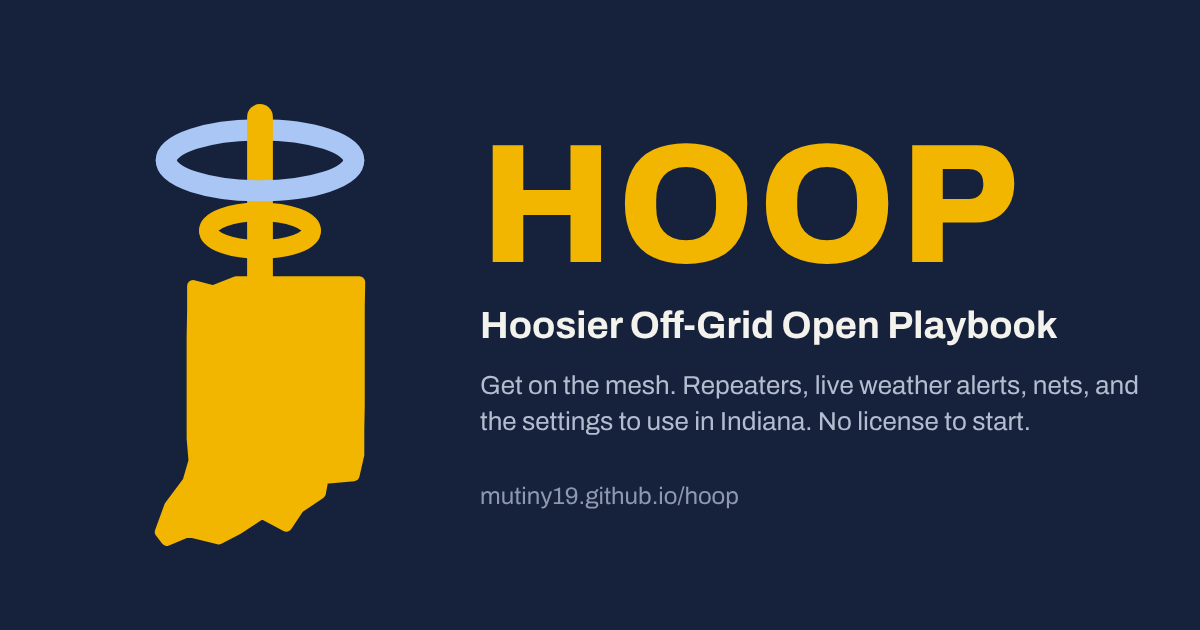
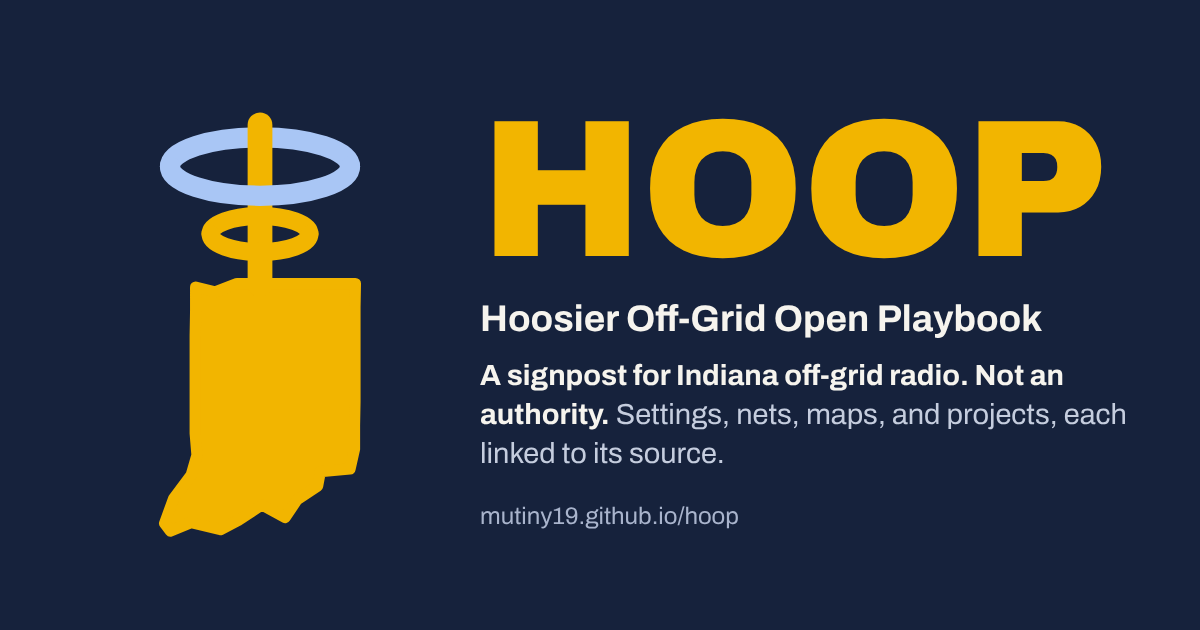
Link previews: redraw the picture with the signpost headline and give it a new address
Chat apps and social sites keep a saved copy of a preview picture until its address
changes, so links kept showing the earlier logo. The picture now carries a version
on every page, and tools/social_image.js redraws it from the mark.

Claude-Session: https://claude.ai/code/session_01WD4jFhUxvP5nJsd9kdkoez

diff --git a/emergency/index.html b/emergency/index.html
@@ -12,7 +12,7 @@
 <meta property="og:title" content="Off-grid mesh for emergency management">
 <meta property="og:description" content="How emergency managers, CERT, ARES/RACES, and disaster groups use off-grid LoRa mesh radio, with cited case studies from four states and New Zealand. APA.">
 <meta property="og:url" content="https://mutiny19.github.io/hoop/emergency/">
-<meta property="og:image" content="https://mutiny19.github.io/hoop/assets/social.png">
+<meta property="og:image" content="https://mutiny19.github.io/hoop/assets/social.png?v=2">
 <meta property="og:image:width" content="1200">
 <meta property="og:image:height" content="630">
 <meta name="twitter:card" content="summary_large_image">
@@ -24,9 +24,9 @@
 <meta property="og:image:alt" content="HOOP: Hoosier Off-Grid Open Playbook">
 <meta name="twitter:title" content="Off-grid mesh for emergency management">
 <meta name="twitter:description" content="How emergency managers, CERT, ARES/RACES, and disaster groups use off-grid LoRa mesh radio, with cited case studies from four states and New Zealand. APA.">
-<meta name="twitter:image" content="https://mutiny19.github.io/hoop/assets/social.png">
+<meta name="twitter:image" content="https://mutiny19.github.io/hoop/assets/social.png?v=2">
 <meta name="twitter:image:alt" content="HOOP: Hoosier Off-Grid Open Playbook">
-<script type="application/ld+json">{"@context": "https://schema.org", "@type": "Article", "headline": "Off-Grid Mesh Radio for Emergency Management and CERT", "description": "How emergency managers, CERT, ARES/RACES, and disaster groups use off-grid LoRa mesh radio, with cited case studies.", "author": {"@type": "Organization", "name": "HOOP"}, "publisher": {"@type": "Organization", "name": "HOOP", "logo": {"@type": "ImageObject", "url": "https://mutiny19.github.io/hoop/assets/social.png"}}, "datePublished": "2026-10-17", "dateModified": "2026-10-25", "mainEntityOfPage": "https://mutiny19.github.io/hoop/emergency/", "image": "https://mutiny19.github.io/hoop/assets/social.png", "isPartOf": {"@id": "https://mutiny19.github.io/hoop/#website"}}</script>
+<script type="application/ld+json">{"@context": "https://schema.org", "@type": "Article", "headline": "Off-Grid Mesh Radio for Emergency Management and CERT", "description": "How emergency managers, CERT, ARES/RACES, and disaster groups use off-grid LoRa mesh radio, with cited case studies.", "author": {"@type": "Organization", "name": "HOOP"}, "publisher": {"@type": "Organization", "name": "HOOP", "logo": {"@type": "ImageObject", "url": "https://mutiny19.github.io/hoop/assets/social.png?v=2"}}, "datePublished": "2026-10-17", "dateModified": "2026-10-25", "mainEntityOfPage": "https://mutiny19.github.io/hoop/emergency/", "image": "https://mutiny19.github.io/hoop/assets/social.png?v=2", "isPartOf": {"@id": "https://mutiny19.github.io/hoop/#website"}}</script>
 <link rel="manifest" href="../manifest.webmanifest">
 <meta name="theme-color" content="#16223C">
 <link rel="apple-touch-icon" href="../assets/icon-192.png">

diff --git a/meshcore/index.html b/meshcore/index.html
@@ -12,7 +12,7 @@
 <meta property="og:title" content="Get on the Indiana mesh: MeshCore in five steps">
 <meta property="og:description" content="New radio to first MeshCore message in Indiana in five steps: which radio, the USA preset, channels people use, and the groups near you. No license, about $30.">
 <meta property="og:url" content="https://mutiny19.github.io/hoop/meshcore/">
-<meta property="og:image" content="https://mutiny19.github.io/hoop/assets/social.png">
+<meta property="og:image" content="https://mutiny19.github.io/hoop/assets/social.png?v=2">
 <meta property="og:image:width" content="1200">
 <meta property="og:image:height" content="630">
 <meta name="twitter:card" content="summary_large_image">
@@ -24,7 +24,7 @@
 <meta property="og:image:alt" content="HOOP: Hoosier Off-Grid Open Playbook">
 <meta name="twitter:title" content="Get on the Indiana mesh: MeshCore in five steps">
 <meta name="twitter:description" content="New radio to first MeshCore message in Indiana in five steps: which radio, the USA preset, channels people use, and the groups near you. No license, about $30.">
-<meta name="twitter:image" content="https://mutiny19.github.io/hoop/assets/social.png">
+<meta name="twitter:image" content="https://mutiny19.github.io/hoop/assets/social.png?v=2">
 <meta name="twitter:image:alt" content="HOOP: Hoosier Off-Grid Open Playbook">
 <script type="application/ld+json">{"@context": "https://schema.org", "@type": "HowTo", "name": "Get on the Indiana mesh with MeshCore", "description": "From a new radio to your first MeshCore message in five steps.", "totalTime": "PT1H", "estimatedCost": {"@type": "MonetaryAmount", "currency": "USD", "value": "30"}, "step": [{"@type": "HowToStep", "name": "Pick a radio", "text": "A SenseCAP T1000-E or a Heltec V3/V4."}, {"@type": "HowToStep", "name": "Flash the companion firmware", "text": "Use the official MeshCore web flasher."}, {"@type": "HowToStep", "name": "Set the USA preset and path hash size", "text": "The radio preset must match everyone else's; set path hash size to 2 bytes."}, {"@type": "HowToStep", "name": "Join the channels people use", "text": "Public is built in; add the hashtag channels for your area."}, {"@type": "HowToStep", "name": "Send a flood advert", "text": "So people and repeaters learn you are there."}], "isPartOf": {"@id": "https://mutiny19.github.io/hoop/#website"}, "dateModified": "2026-10-25"}</script>
 <link rel="manifest" href="../manifest.webmanifest">

diff --git a/index.html b/index.html
@@ -12,7 +12,7 @@
 <meta property="og:title" content="HOOP · Hoosier Off-Grid Open Playbook">
 <meta property="og:description" content="Indiana off-grid comms on one map: MeshCore repeaters, live NWS alerts, radio nets, and starting settings for MeshCore, Meshtastic, GMRS, ham, and Reticulum.">
 <meta property="og:url" content="https://mutiny19.github.io/hoop/">
-<meta property="og:image" content="https://mutiny19.github.io/hoop/assets/social.png">
+<meta property="og:image" content="https://mutiny19.github.io/hoop/assets/social.png?v=2">
 <meta property="og:image:width" content="1200">
 <meta property="og:image:height" content="630">
 <meta name="twitter:card" content="summary_large_image">
@@ -24,7 +24,7 @@
 <meta property="og:image:alt" content="HOOP: Hoosier Off-Grid Open Playbook">
 <meta name="twitter:title" content="HOOP · Hoosier Off-Grid Open Playbook">
 <meta name="twitter:description" content="Indiana off-grid comms on one map: MeshCore repeaters, live NWS alerts, radio nets, and starting settings for MeshCore, Meshtastic, GMRS, ham, and Reticulum.">
-<meta name="twitter:image" content="https://mutiny19.github.io/hoop/assets/social.png">
+<meta name="twitter:image" content="https://mutiny19.github.io/hoop/assets/social.png?v=2">
 <meta name="twitter:image:alt" content="HOOP: Hoosier Off-Grid Open Playbook">
 <script type="application/ld+json">{"@context": "https://schema.org", "@graph": [{"@type": "WebSite", "@id": "https://mutiny19.github.io/hoop/#website", "url": "https://mutiny19.github.io/hoop/", "name": "HOOP", "alternateName": "Hoosier Off-Grid Open Playbook", "description": "Off-grid communications in Indiana: MeshCore, Meshtastic, GMRS, ham radio, and Reticulum. Represents no network or organization.", "inLanguage": "en-US"}, {"@type": "WebPage", "@id": "https://mutiny19.github.io/hoop/#webpage", "url": "https://mutiny19.github.io/hoop/", "name": "HOOP: Indiana Off-Grid Comms, MeshCore Map, Nets, and Settings", "isPartOf": {"@id": "https://mutiny19.github.io/hoop/#website"}, "about": {"@type": "Place", "name": "Indiana", "address": {"@type": "PostalAddress", "addressRegion": "IN", "addressCountry": "US"}}, "dateModified": "2026-10-25"}]}</script>
 <link rel="manifest" href="manifest.webmanifest">

diff --git a/meshnet/index.html b/meshnet/index.html
@@ -12,7 +12,7 @@
 <meta property="og:title" content="#meshnet: the same check-in on every mesh, at the same time">
 <meta property="og:description" content="One channel, ten minutes, Sundays and Thursdays at 7:00 PM US Eastern. Check in from anywhere, mirror it for your area, and see Indiana's check-ins on a map.">
 <meta property="og:url" content="https://mutiny19.github.io/hoop/meshnet/">
-<meta property="og:image" content="https://mutiny19.github.io/hoop/assets/social.png">
+<meta property="og:image" content="https://mutiny19.github.io/hoop/assets/social.png?v=2">
 <meta property="og:image:width" content="1200">
 <meta property="og:image:height" content="630">
 <meta name="twitter:card" content="summary_large_image">
@@ -24,7 +24,7 @@
 <meta property="og:image:alt" content="HOOP: Hoosier Off-Grid Open Playbook">
 <meta name="twitter:title" content="#meshnet: the same check-in on every mesh, at the same time">
 <meta name="twitter:description" content="One channel, ten minutes, Sundays and Thursdays at 7:00 PM US Eastern. Check in from anywhere, mirror it for your area, and see Indiana's check-ins on a map.">
-<meta name="twitter:image" content="https://mutiny19.github.io/hoop/assets/social.png">
+<meta name="twitter:image" content="https://mutiny19.github.io/hoop/assets/social.png?v=2">
 <meta name="twitter:image:alt" content="HOOP: Hoosier Off-Grid Open Playbook">
 <script type="application/ld+json">{"@context": "https://schema.org", "@type": "WebPage", "url": "https://mutiny19.github.io/hoop/meshnet/", "name": "#meshnet: the same check-in on every mesh, at the same time", "description": "A ten-minute MeshCore check-in net open to anyone on the mesh, Sundays and Thursdays at 7:00 PM, with check-ins from Indiana and its border counties on a map.", "isPartOf": {"@id": "https://mutiny19.github.io/hoop/#website"}, "dateModified": "2026-11-01"}</script>
 <link rel="manifest" href="../manifest.webmanifest">

diff --git a/projects/index.html b/projects/index.html
@@ -12,7 +12,7 @@
 <meta property="og:title" content="Off-grid projects made or used in Indiana">
 <meta property="og:description" content="Mesh firmware, apps, 3D prints, ham and GMRS tools, and maps, made or used in Indiana. Anyone can add one.">
 <meta property="og:url" content="https://mutiny19.github.io/hoop/projects/">
-<meta property="og:image" content="https://mutiny19.github.io/hoop/assets/social.png">
+<meta property="og:image" content="https://mutiny19.github.io/hoop/assets/social.png?v=2">
 <meta property="og:image:width" content="1200">
 <meta property="og:image:height" content="630">
 <meta name="twitter:card" content="summary_large_image">
@@ -24,7 +24,7 @@
 <meta property="og:image:alt" content="HOOP: Hoosier Off-Grid Open Playbook">
 <meta name="twitter:title" content="Off-grid projects made or used in Indiana">
 <meta name="twitter:description" content="Mesh firmware, apps, 3D prints, ham and GMRS tools, and maps, made or used in Indiana.">
-<meta name="twitter:image" content="https://mutiny19.github.io/hoop/assets/social.png">
+<meta name="twitter:image" content="https://mutiny19.github.io/hoop/assets/social.png?v=2">
 <meta name="twitter:image:alt" content="HOOP: Hoosier Off-Grid Open Playbook">
 <script type="application/ld+json">{"@context": "https://schema.org", "@type": "CollectionPage", "url": "https://mutiny19.github.io/hoop/projects/", "name": "Off-grid projects made or used in Indiana", "description": "Off-grid communications projects made or used in Indiana: mesh firmware, apps and tools, 3D-printed enclosures, ham and GMRS tools, and maps. Anyone can add one.", "isPartOf": {"@id": "https://mutiny19.github.io/hoop/#website"}, "dateModified": "2026-11-06"}</script>
 <link rel="manifest" href="../manifest.webmanifest">

diff --git a/live/index.html b/live/index.html
@@ -12,7 +12,7 @@
 <meta property="og:title" content="Watch the Indiana mesh live">
 <meta property="og:description" content="Where live MeshCore traffic in Indiana shows up: Waev, OKI CoreScope, LetsMesh, MeshMapper, and the official MeshCore Map, plus how to run an observer.">
 <meta property="og:url" content="https://mutiny19.github.io/hoop/live/">
-<meta property="og:image" content="https://mutiny19.github.io/hoop/assets/social.png">
+<meta property="og:image" content="https://mutiny19.github.io/hoop/assets/social.png?v=2">
 <meta property="og:image:width" content="1200">
 <meta property="og:image:height" content="630">
 <meta name="twitter:card" content="summary_large_image">
@@ -24,7 +24,7 @@
 <meta property="og:image:alt" content="HOOP: Hoosier Off-Grid Open Playbook">
 <meta name="twitter:title" content="Watch the Indiana mesh live">
 <meta name="twitter:description" content="Where live MeshCore traffic in Indiana shows up: Waev, OKI CoreScope, LetsMesh, MeshMapper, and the official MeshCore Map, plus how to run an observer.">
-<meta name="twitter:image" content="https://mutiny19.github.io/hoop/assets/social.png">
+<meta name="twitter:image" content="https://mutiny19.github.io/hoop/assets/social.png?v=2">
 <meta name="twitter:image:alt" content="HOOP: Hoosier Off-Grid Open Playbook">
 <script type="application/ld+json">{"@context": "https://schema.org", "@type": "WebPage", "url": "https://mutiny19.github.io/hoop/live/", "name": "Watch Indiana MeshCore traffic live", "description": "Where live MeshCore traffic in Indiana shows up and how to run an observer.", "isPartOf": {"@id": "https://mutiny19.github.io/hoop/#website"}, "dateModified": "2026-10-25"}</script>
 <link rel="manifest" href="../manifest.webmanifest">

diff --git a/gifts/index.html b/gifts/index.html
@@ -12,7 +12,7 @@
 <meta property="og:title" content="Off-grid radio gift guide">
 <meta property="og:description" content="A simple gift list for someone curious about off-grid radio in Indiana: one example per kind of gear, grouped into kits that fit under $100, $250, $500, and $1,000.">
 <meta property="og:url" content="https://mutiny19.github.io/hoop/gifts/">
-<meta property="og:image" content="https://mutiny19.github.io/hoop/assets/social.png">
+<meta property="og:image" content="https://mutiny19.github.io/hoop/assets/social.png?v=2">
 <meta property="og:image:width" content="1200">
 <meta property="og:image:height" content="630">
 <meta name="twitter:card" content="summary_large_image">
@@ -24,7 +24,7 @@
 <meta property="og:image:alt" content="HOOP: Hoosier Off-Grid Open Playbook">
 <meta name="twitter:title" content="Off-grid radio gift guide">
 <meta name="twitter:description" content="A simple gift list for someone curious about off-grid radio in Indiana: one example per kind of gear, grouped into kits that fit under $100, $250, $500, and $1,000.">
-<meta name="twitter:image" content="https://mutiny19.github.io/hoop/assets/social.png">
+<meta name="twitter:image" content="https://mutiny19.github.io/hoop/assets/social.png?v=2">
 <meta name="twitter:image:alt" content="HOOP: Hoosier Off-Grid Open Playbook">
 <script type="application/ld+json">{"@context": "https://schema.org", "@type": "WebPage", "url": "https://mutiny19.github.io/hoop/gifts/", "name": "Off-grid radio gift guide", "description": "Starter radio kits by budget, one example per kind of gear.", "isPartOf": {"@id": "https://mutiny19.github.io/hoop/#website"}, "dateModified": "2026-11-17"}</script>
 <link rel="manifest" href="../manifest.webmanifest">

diff --git a/channels/index.html b/channels/index.html
@@ -12,7 +12,7 @@
 <meta property="og:title" content="Indiana channel lists and net schedule">
 <meta property="og:description" content="Listen-only channels as a file for CHIRP, and every Indiana net on the list, by day.">
 <meta property="og:url" content="https://mutiny19.github.io/hoop/channels/">
-<meta property="og:image" content="https://mutiny19.github.io/hoop/assets/social.png">
+<meta property="og:image" content="https://mutiny19.github.io/hoop/assets/social.png?v=2">
 <meta property="og:image:width" content="1200">
 <meta property="og:image:height" content="630">
 <meta name="twitter:card" content="summary_large_image">
@@ -24,7 +24,7 @@
 <meta property="og:image:alt" content="HOOP: Hoosier Off-Grid Open Playbook">
 <meta name="twitter:title" content="Indiana channel lists and net schedule">
 <meta name="twitter:description" content="Listen-only channel lists for CHIRP, and every Indiana net by day.">
-<meta name="twitter:image" content="https://mutiny19.github.io/hoop/assets/social.png">
+<meta name="twitter:image" content="https://mutiny19.github.io/hoop/assets/social.png?v=2">
 <meta name="twitter:image:alt" content="HOOP: Hoosier Off-Grid Open Playbook">
 <link rel="manifest" href="../manifest.webmanifest">
 <meta name="theme-color" content="#16223C">

diff --git a/tools/social_image.html b/tools/social_image.html
@@ -1,0 +1,20 @@
+<!doctype html><html><head><meta charset="utf-8"><style>
+@font-face { font-family: Archivo; src: url(FONTS/archivo.woff2) format("woff2"); font-weight: 100 900; }
+* { box-sizing: border-box; margin: 0; }
+body { width: 1200px; height: 630px; background: #16223C; color: #F6F4EE; font-family: Archivo, sans-serif; display: grid; grid-template-columns: 420px 1fr; align-items: center; }
+.mark { justify-self: center; height: 450px; margin-left: 100px; }
+.t { padding: 0 70px 0 60px; }
+h1 { font-size: 196px; font-weight: 900; line-height: .92; color: #F2B500; letter-spacing: -.01em; }
+h2 { font-size: 37px; font-weight: 700; margin-top: 18px; }
+p { font-size: 29px; line-height: 1.34; color: #C5CDDE; margin-top: 18px; }
+p b { color: #F6F4EE; font-weight: 700; }
+.u { font-size: 24px; color: #A9B4CC; margin-top: 30px; }
+</style></head><body>
+<img class="mark" src="MARK" alt="">
+<div class="t">
+  <h1>HOOP</h1>
+  <h2>Hoosier Off-Grid Open Playbook</h2>
+  <p><b>A signpost for Indiana off-grid radio. Not an authority.</b> Settings, nets, maps, and projects, each linked to its source.</p>
+  <div class="u">mutiny19.github.io/hoop</div>
+</div>
+</body></html>

diff --git a/tools/social_image.js b/tools/social_image.js
@@ -1,0 +1,13 @@
+// Renders assets/social.png, the picture link previews show, from tools/social_image.html.
+// Run by hand when the logo or the headline changes; needs Node with Playwright installed:
+//     node tools/social_image.js
+// Then bump the ?v= on og:image and twitter:image on every page: chat apps and social sites keep the old
+// picture until the image's address changes.
+const { chromium } = require('playwright'); const fs = require('fs'); const path = require('path');
+(async () => {
+  const repo = path.resolve(__dirname, '..'), tmp = path.join(require('os').tmpdir(), 'hoop-social.html');
+  fs.writeFileSync(tmp, fs.readFileSync(path.join(__dirname, 'social_image.html'), 'utf8').replaceAll('FONTS', 'file://' + repo + '/assets/fonts').replace('MARK', 'file://' + repo + '/assets/mark.svg'));
+  const b = await chromium.launch({ args: ['--allow-file-access-from-files'] }); const p = await b.newPage({ viewport: { width: 1200, height: 630 }, deviceScaleFactor: 1 });
+  await p.goto('file://' + tmp); await p.waitForTimeout(700);
+  await p.screenshot({ path: path.join(repo, 'assets', 'social.png') }); await b.close();
+})();

diff --git a/sw.js b/sw.js
@@ -2,7 +2,7 @@
    Scripts, styles, fonts and images: the saved copy at once, refreshed in the background.
    data/*.json: network first, saved copy when offline. Anything on another site (weather, maps) is left alone.
    Bump CACHE when the list below changes, and whenever a script or stylesheet changes. */
-var CACHE = "hoop-v40";
+var CACHE = "hoop-v41";
 var PRECACHE = ["./", "meshcore/", "meshnet/", "emergency/", "live/", "projects/", "channels/", "gifts/",
   "assets/site.css", "assets/site.js", "assets/theme.js", "assets/home.js", "assets/nets.js", "assets/chirps.js",
   "assets/fonts/archivo.woff2", "assets/fonts/plex-mono-400.woff2", "assets/fonts/plex-mono-500.woff2",

diff --git a/advanced/index.html b/advanced/index.html
@@ -13,7 +13,7 @@
 <meta property="og:title" content="Advanced and theoretical">
 <meta property="og:description" content="Indiana-specific material for MeshCore repeater owners, for consideration only: proposed region structures, open base commands, observer brokers.">
 <meta property="og:url" content="https://mutiny19.github.io/hoop/advanced/">
-<meta property="og:image" content="https://mutiny19.github.io/hoop/assets/social.png">
+<meta property="og:image" content="https://mutiny19.github.io/hoop/assets/social.png?v=2">
 <meta property="og:image:width" content="1200">
 <meta property="og:image:height" content="630">
 <meta name="twitter:card" content="summary_large_image">
